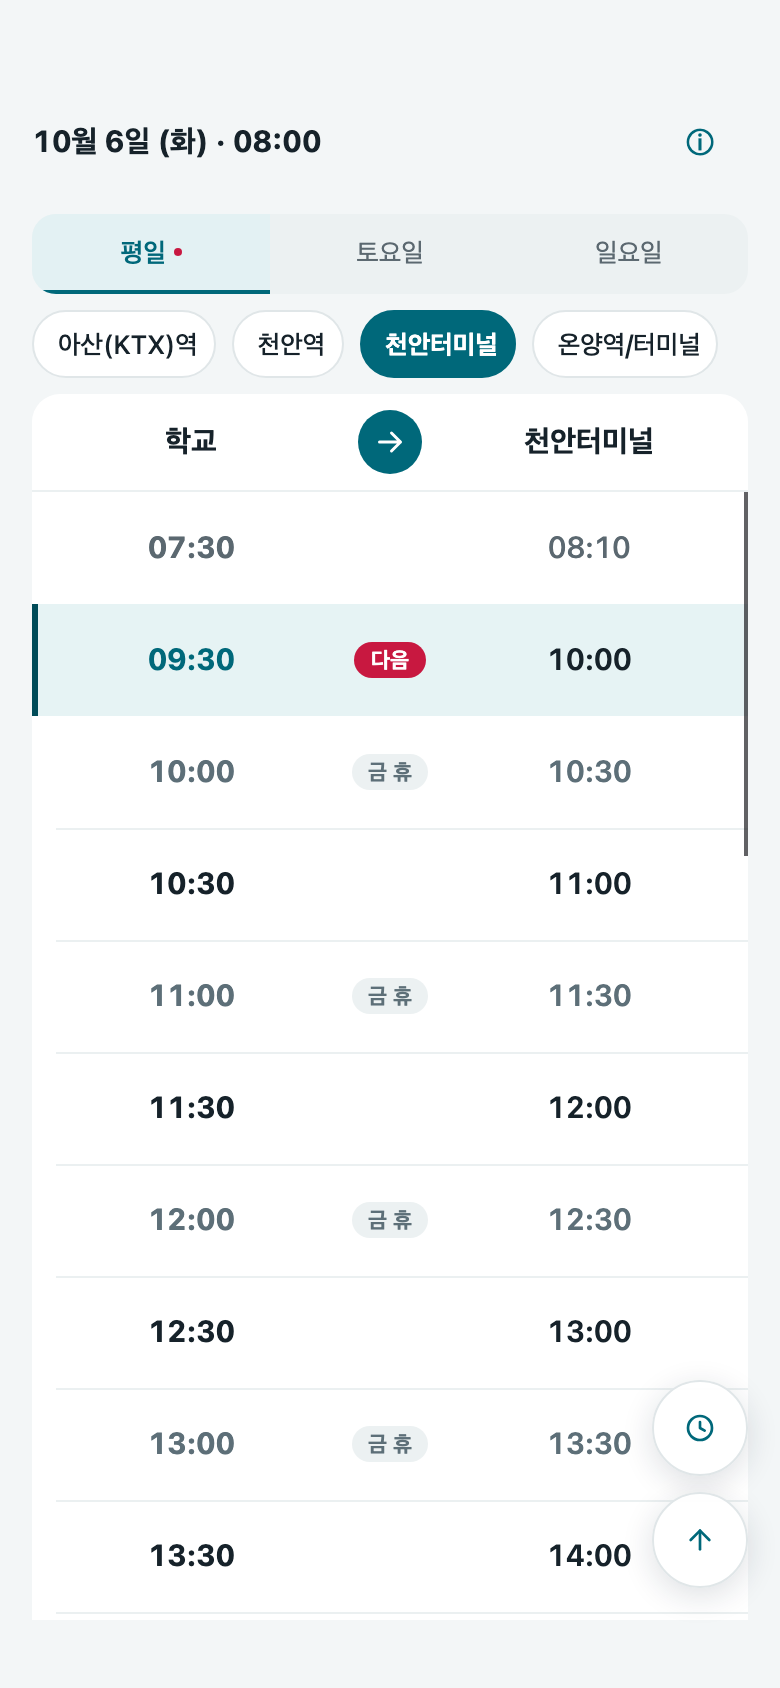
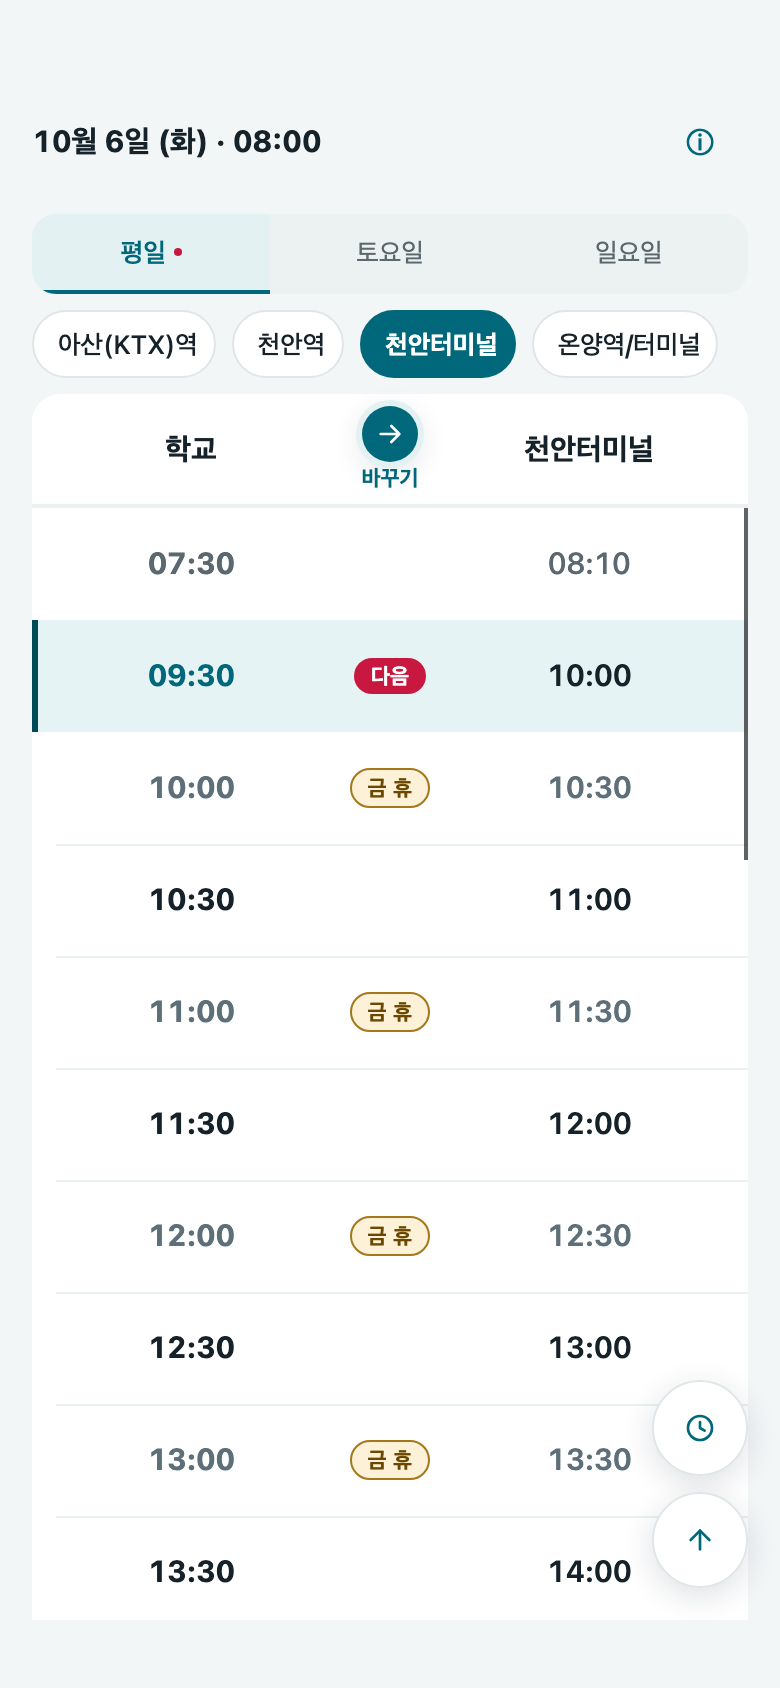
evidence: 방향 머리 버튼 후 스모크 재실행 산출물

diff --git a/.session-notes/T7-a11y-report.md b/.session-notes/T7-a11y-report.md
@@ -1,13 +1,13 @@
 # T7·T11 감사 원출력 (a11y_smoke.mjs)
 
-- 일시: 2026-11-14T07:36:23.466Z
-- URL: http://127.0.0.1:56016/sunmoon-shuttle/?now=2026-10-05T14%3A40%3A00%2B09%3A00
+- 일시: 2026-11-14T07:48:29.609Z
+- URL: http://127.0.0.1:56540/sunmoon-shuttle/?now=2026-10-05T14%3A40%3A00%2B09%3A00
 - 뷰포트: 390×844 @2x (mobile, touch)
 - 스크린샷: .session-notes/T7-light.png · .session-notes/T7-dark.png · .session-notes/T7-focus-skip-link.png · .session-notes/T11-privacy.png
 
 ### ① 매니페스트 (Page.getAppManifest)
 
-- url: http://127.0.0.1:56016/sunmoon-shuttle/manifest.webmanifest
+- url: http://127.0.0.1:56540/sunmoon-shuttle/manifest.webmanifest
 - errors: []
 - name: 선문대 셔틀버스 시간표 · Sunmoon Shuttle Bus
 - short_name: 셔틀버스 Shuttle
@@ -25,7 +25,7 @@
 | ./icons/maskable-512.png | 512x512 | maskable | 200 | 512x512 | 4290B |
 
 
-### ③ light — 대비 실측(전체 34개 텍스트 노드)
+### ③ light — 대비 실측(전체 35개 텍스트 노드)
 
 | 요소 | 문구 | 전경 | 배경 | 크기 | 대비 | 기준 |
 |---|---|---|---|---|---|---|
@@ -41,6 +41,7 @@
 | span.shuttle-chip__label | 천안터미널 | rgb(22, 34, 42) | rgb(255, 255, 255) | 13px | 16.2:1 | ≥4.5 |
 | span.shuttle-chip__label | 온양역/터미널 | rgb(93, 111, 120) | rgb(255, 255, 255) | 13px | 5.24:1 | ≥4.5 |
 | span.shuttle-dirhead__place | 학교 | rgb(22, 34, 42) | rgb(255, 255, 255) | 15px bold | 16.2:1 | ≥4.5 |
+| span.shuttle-dirhead__hint | 바꾸기 | rgb(0, 104, 122) | rgb(255, 255, 255) | 11px bold | 6.44:1 | ≥4.5 |
 | span.shuttle-dirhead__place.shuttle-dirhead__place--to | 아산(KTX)역 | rgb(22, 34, 42) | rgb(255, 255, 255) | 15px bold | 16.2:1 | ≥4.5 |
 | span.shuttle-departure__time | 09:00 | rgb(91, 104, 112) | rgb(255, 255, 255) | 15px bold | 5.74:1 | ≥4.5 |
 | span.shuttle-departure__duration | 약 20분 | rgb(91, 104, 112) | rgb(255, 255, 255) | 13px | 5.74:1 | ≥4.5 |
@@ -80,7 +81,7 @@
 | button.shuttle-chip | 천안역 | 56px | 44px | 48×44 |
 | button.shuttle-chip | 천안터미널 | 78px | 44px | 48×44 |
 | button.shuttle-chip.shuttle-chip--empty | 온양역/터미널 | 93px | 44px | 48×44 |
-| button.shuttle-dirhead__arrow |  | 48px | 48px | 48×48 |
+| button.shuttle-dirhead | 학교바꾸기아산(KTX)역 | 358px | 56px | 48×48 |
 | section.shuttle-tabpanel.shuttle-tabpanel--enter | 시간표09:00약 20분09:20지난 편12:00약 | 358px | 464px | 48×48 |
 | button.shuttle-icon-button |  | 48px | 48px | 48×48 |
 | button.shuttle-icon-button.shuttle-sheet__close |  | 48px | 48px | 48×48 |
@@ -92,7 +93,7 @@
 
 규격 미달: 0건
 
-레이아웃: 요소 260개 · body bg=rgb(243, 246, 247) · body color=rgb(22, 34, 42) · scrollWidth=390 ≤ clientWidth=390
+레이아웃: 요소 262개 · body bg=rgb(243, 246, 247) · body color=rgb(22, 34, 42) · scrollWidth=390 ≤ clientWidth=390
 
 
 #### 키보드 포커스(실측)
@@ -103,7 +104,7 @@
 ### 설치 안내 삭제 + 본문 텍스트 노드 전수 목록(T31 · docs/07 §13)
 - 설치 안내 노드: false · 금지 문자열 실측(값·상태·라벨 구역): 0건
 - §9-4 예외 구역(상태 1줄): 합니다
-- 본문 텍스트 노드 32개 · 허용 구역 밖 0건
+- 본문 텍스트 노드 33개 · 허용 구역 밖 0건
 - 전수 목록(문자열·위치·크기): .session-notes/T31-본문텍스트노드.md
 
 | 요소 | 문자열 | 위치(x,y) | 크기(w×h) | 폰트(px) | 구분 |
@@ -119,30 +120,31 @@
 | span.shuttle-chip__label | 천안역 | 131,186 | 34×20 | 13 | 값·상태·라벨 |
 | span.shuttle-chip__label | 천안터미널 | 195,186 | 56×20 | 13 | 값·상태·라벨 |
 | span.shuttle-chip__label | 온양역/터미널 | 281,186 | 71×20 | 13 | 값·상태·라벨 |
-| span.shuttle-dirhead__place | 학교 | 83,234 | 26×23 | 15 | 값·상태·라벨 |
-| span.shuttle-dirhead__place.shuttle-dirhead__place--to | 아산(KTX)역 | 253,234 | 82×23 | 15 | 값·상태·라벨 |
-| span.shuttle-departure__time | 09:00 | 74,289 | 44×20 | 15 | 값·상태·라벨 |
-| span.shuttle-departure__duration | 약 20분 | 174,288 | 42×20 | 13 | 값·상태·라벨 |
-| span.shuttle-departure__arrive | 09:20 | 274,289 | 41×20 | 15 | 값·상태·라벨 |
-| span.shuttle-departure__time | 12:00 | 74,345 | 44×20 | 15 | 값·상태·라벨 |
-| span.shuttle-departure__duration | 약 20분 | 174,344 | 42×20 | 13 | 값·상태·라벨 |
-| span.shuttle-departure__arrive | 12:20 | 274,345 | 41×20 | 15 | 값·상태·라벨 |
-| span.shuttle-departure__time | 16:10 | 74,401 | 44×20 | 15 | 값·상태·라벨 |
-| span.shuttle-departure__duration | 약 20분 | 174,390 | 42×20 | 13 | 값·상태·라벨 |
-| span.shuttle-departure__next-badge | 다음 | 177,412 | 35×19 | 11 | 값·상태·라벨 |
-| span.shuttle-departure__arrive | 16:30 | 273,401 | 43×20 | 15 | 값·상태·라벨 |
-| span.shuttle-departure__time | 18:20 | 74,457 | 44×20 | 15 | 값·상태·라벨 |
-| span.shuttle-departure__duration | 약 20분 | 174,456 | 42×20 | 13 | 값·상태·라벨 |
-| span.shuttle-departure__arrive | 18:40 | 273,457 | 43×20 | 15 | 값·상태·라벨 |
-| span.shuttle-departure__time | 19:10 | 74,513 | 44×20 | 15 | 값·상태·라벨 |
-| span.shuttle-departure__duration | 약 20분 | 174,512 | 42×20 | 13 | 값·상태·라벨 |
-| span.shuttle-departure__arrive | 19:30 | 273,513 | 43×20 | 15 | 값·상태·라벨 |
-| span.shuttle-departure__time | 20:00 | 74,569 | 44×20 | 15 | 값·상태·라벨 |
-| span.shuttle-departure__duration | 약 20분 | 174,568 | 42×20 | 13 | 값·상태·라벨 |
-| span.shuttle-departure__arrive | 20:20 | 273,569 | 43×20 | 15 | 값·상태·라벨 |
+| span.shuttle-dirhead__place | 학교 | 83,237 | 26×23 | 15 | 값·상태·라벨 |
+| span.shuttle-dirhead__hint | 바꾸기 | 181,257 | 29×13 | 11 | 값·상태·라벨 |
+| span.shuttle-dirhead__place.shuttle-dirhead__place--to | 아산(KTX)역 | 253,237 | 82×23 | 15 | 값·상태·라벨 |
+| span.shuttle-departure__time | 09:00 | 74,297 | 44×20 | 15 | 값·상태·라벨 |
+| span.shuttle-departure__duration | 약 20분 | 174,296 | 42×20 | 13 | 값·상태·라벨 |
+| span.shuttle-departure__arrive | 09:20 | 274,297 | 41×20 | 15 | 값·상태·라벨 |
+| span.shuttle-departure__time | 12:00 | 74,353 | 44×20 | 15 | 값·상태·라벨 |
+| span.shuttle-departure__duration | 약 20분 | 174,352 | 42×20 | 13 | 값·상태·라벨 |
+| span.shuttle-departure__arrive | 12:20 | 274,353 | 41×20 | 15 | 값·상태·라벨 |
+| span.shuttle-departure__time | 16:10 | 74,409 | 44×20 | 15 | 값·상태·라벨 |
+| span.shuttle-departure__duration | 약 20분 | 174,398 | 42×20 | 13 | 값·상태·라벨 |
+| span.shuttle-departure__next-badge | 다음 | 177,420 | 35×19 | 11 | 값·상태·라벨 |
+| span.shuttle-departure__arrive | 16:30 | 273,409 | 43×20 | 15 | 값·상태·라벨 |
+| span.shuttle-departure__time | 18:20 | 74,465 | 44×20 | 15 | 값·상태·라벨 |
+| span.shuttle-departure__duration | 약 20분 | 174,464 | 42×20 | 13 | 값·상태·라벨 |
+| span.shuttle-departure__arrive | 18:40 | 273,465 | 43×20 | 15 | 값·상태·라벨 |
+| span.shuttle-departure__time | 19:10 | 74,521 | 44×20 | 15 | 값·상태·라벨 |
+| span.shuttle-departure__duration | 약 20분 | 174,520 | 42×20 | 13 | 값·상태·라벨 |
+| span.shuttle-departure__arrive | 19:30 | 273,521 | 43×20 | 15 | 값·상태·라벨 |
+| span.shuttle-departure__time | 20:00 | 74,577 | 44×20 | 15 | 값·상태·라벨 |
+| span.shuttle-departure__duration | 약 20분 | 174,576 | 42×20 | 13 | 값·상태·라벨 |
+| span.shuttle-departure__arrive | 20:20 | 273,577 | 43×20 | 15 | 값·상태·라벨 |
 
 
-### ④ dark — 대비 실측(전체 34개 텍스트 노드)
+### ④ dark — 대비 실측(전체 35개 텍스트 노드)
 
 | 요소 | 문구 | 전경 | 배경 | 크기 | 대비 | 기준 |
 |---|---|---|---|---|---|---|
@@ -158,6 +160,7 @@
 | span.shuttle-chip__label | 천안터미널 | rgb(238, 242, 246) | rgb(27, 33, 41) | 13px | 14.4:1 | ≥4.5 |
 | span.shuttle-chip__label | 온양역/터미널 | rgb(154, 166, 178) | rgb(27, 33, 41) | 13px | 6.54:1 | ≥4.5 |
 | span.shuttle-dirhead__place | 학교 | rgb(238, 242, 246) | rgb(27, 33, 41) | 15px bold | 14.4:1 | ≥4.5 |
+| span.shuttle-dirhead__hint | 바꾸기 | rgb(95, 195, 207) | rgb(27, 33, 41) | 11px bold | 7.86:1 | ≥4.5 |
 | span.shuttle-dirhead__place.shuttle-dirhead__place--to | 아산(KTX)역 | rgb(238, 242, 246) | rgb(27, 33, 41) | 15px bold | 14.4:1 | ≥4.5 |
 | span.shuttle-departure__time | 09:00 | rgb(185, 195, 206) | rgb(27, 33, 41) | 15px bold | 9.07:1 | ≥4.5 |
 | span.shuttle-departure__duration | 약 20분 | rgb(185, 195, 206) | rgb(27, 33, 41) | 13px | 9.07:1 | ≥4.5 |
@@ -197,7 +200,7 @@
 | button.shuttle-chip | 천안역 | 56px | 44px | 48×44 |
 | button.shuttle-chip | 천안터미널 | 78px | 44px | 48×44 |
 | button.shuttle-chip.shuttle-chip--empty | 온양역/터미널 | 93px | 44px | 48×44 |
-| button.shuttle-dirhead__arrow |  | 48px | 48px | 48×48 |
+| button.shuttle-dirhead | 학교바꾸기아산(KTX)역 | 358px | 56px | 48×48 |
 | section.shuttle-tabpanel.shuttle-tabpanel--enter | 시간표09:00약 20분09:20지난 편12:00약 | 358px | 464px | 48×48 |
 | button.shuttle-icon-button |  | 48px | 48px | 48×48 |
 | button.shuttle-icon-button.shuttle-sheet__close |  | 48px | 48px | 48×48 |
@@ -209,7 +212,7 @@
 
 규격 미달: 0건
 
-레이아웃: 요소 260개 · body bg=rgb(18, 22, 27) · body color=rgb(238, 242, 246) · scrollWidth=390 ≤ clientWidth=390
+레이아웃: 요소 262개 · body bg=rgb(18, 22, 27) · body color=rgb(238, 242, 246) · scrollWidth=390 ≤ clientWidth=390
 
 
 #### 안전영역 토큰 주입 실측
@@ -223,10 +226,10 @@
 
 
 ### ⑧ 개인정보처리방침(privacy.html · T11)
-- URL: http://127.0.0.1:56016/sunmoon-shuttle/privacy.html (HTTP 200, 6238B)
+- URL: http://127.0.0.1:56540/sunmoon-shuttle/privacy.html (HTTP 200, 6238B)
 - h1: 개인정보처리방침 · 필수 문구 누락: 0건
 - body bg=rgb(243, 246, 247) · color=rgb(22, 34, 42) · 가로 스크롤 없음(scrollWidth=390)
-- 푸터 링크: {"href":"./privacy.html","text":"개인정보처리방침","resolved":"http://127.0.0.1:56016/sunmoon-shuttle/privacy.html"}
+- 푸터 링크: {"href":"./privacy.html","text":"개인정보처리방침","resolved":"http://127.0.0.1:56540/sunmoon-shuttle/privacy.html"}
 - 스크린샷: /Users/leeheesun/Documents/GitHub/sunmoon-shuttle/.session-notes/T11-privacy.png
 
 | 요소 | 문구 | 전경 | 배경 | 크기 | 대비 | 기준 |

diff --git a/.session-notes/T31-본문텍스트노드.md b/.session-notes/T31-본문텍스트노드.md
@@ -1,9 +1,9 @@
 # T31 본문 텍스트 노드 전수 목록 (docs/07 §13-3 · AC-U13-2)
 
-- 일시: 2026-11-14T07:36:20.781Z
-- URL: http://127.0.0.1:56016/sunmoon-shuttle/?now=2026-10-05T14%3A40%3A00%2B09%3A00
+- 일시: 2026-11-14T07:48:26.830Z
+- URL: http://127.0.0.1:56540/sunmoon-shuttle/?now=2026-10-05T14%3A40%3A00%2B09%3A00
 - 뷰포트: 390×844 @2x (mobile, touch) · 라이트 모드 · 미설치 상태(설치 안내 없음)
-- 노드 수: 32개 · 금지 문자열 실측: 0건
+- 노드 수: 33개 · 금지 문자열 실측: 0건
 - §9-4 예외 구역(상단 상태 1줄·오류/오프라인 배너)에서 나온 금지 문자열: 합니다 (문서가 남긴 고정 문구 — v1·render·offline 스모크가 그대로 검사한다)
 - 허용 구역 밖(설명문 의심): 0건
 
@@ -20,27 +20,28 @@
 | 9 | span.shuttle-chip__label | 천안역 | 131,186 | 34×20 | 13 | 값·상태·라벨 |
 | 10 | span.shuttle-chip__label | 천안터미널 | 195,186 | 56×20 | 13 | 값·상태·라벨 |
 | 11 | span.shuttle-chip__label | 온양역/터미널 | 281,186 | 71×20 | 13 | 값·상태·라벨 |
-| 12 | span.shuttle-dirhead__place | 학교 | 83,234 | 26×23 | 15 | 값·상태·라벨 |
-| 13 | span.shuttle-dirhead__place.shuttle-dirhead__place--to | 아산(KTX)역 | 253,234 | 82×23 | 15 | 값·상태·라벨 |
-| 14 | span.shuttle-departure__time | 09:00 | 74,289 | 44×20 | 15 | 값·상태·라벨 |
-| 15 | span.shuttle-departure__duration | 약 20분 | 174,288 | 42×20 | 13 | 값·상태·라벨 |
-| 16 | span.shuttle-departure__arrive | 09:20 | 274,289 | 41×20 | 15 | 값·상태·라벨 |
-| 17 | span.shuttle-departure__time | 12:00 | 74,345 | 44×20 | 15 | 값·상태·라벨 |
-| 18 | span.shuttle-departure__duration | 약 20분 | 174,344 | 42×20 | 13 | 값·상태·라벨 |
-| 19 | span.shuttle-departure__arrive | 12:20 | 274,345 | 41×20 | 15 | 값·상태·라벨 |
-| 20 | span.shuttle-departure__time | 16:10 | 74,401 | 44×20 | 15 | 값·상태·라벨 |
-| 21 | span.shuttle-departure__duration | 약 20분 | 174,390 | 42×20 | 13 | 값·상태·라벨 |
-| 22 | span.shuttle-departure__next-badge | 다음 | 177,412 | 35×19 | 11 | 값·상태·라벨 |
-| 23 | span.shuttle-departure__arrive | 16:30 | 273,401 | 43×20 | 15 | 값·상태·라벨 |
-| 24 | span.shuttle-departure__time | 18:20 | 74,457 | 44×20 | 15 | 값·상태·라벨 |
-| 25 | span.shuttle-departure__duration | 약 20분 | 174,456 | 42×20 | 13 | 값·상태·라벨 |
-| 26 | span.shuttle-departure__arrive | 18:40 | 273,457 | 43×20 | 15 | 값·상태·라벨 |
-| 27 | span.shuttle-departure__time | 19:10 | 74,513 | 44×20 | 15 | 값·상태·라벨 |
-| 28 | span.shuttle-departure__duration | 약 20분 | 174,512 | 42×20 | 13 | 값·상태·라벨 |
-| 29 | span.shuttle-departure__arrive | 19:30 | 273,513 | 43×20 | 15 | 값·상태·라벨 |
-| 30 | span.shuttle-departure__time | 20:00 | 74,569 | 44×20 | 15 | 값·상태·라벨 |
-| 31 | span.shuttle-departure__duration | 약 20분 | 174,568 | 42×20 | 13 | 값·상태·라벨 |
-| 32 | span.shuttle-departure__arrive | 20:20 | 273,569 | 43×20 | 15 | 값·상태·라벨 |
+| 12 | span.shuttle-dirhead__place | 학교 | 83,237 | 26×23 | 15 | 값·상태·라벨 |
+| 13 | span.shuttle-dirhead__hint | 바꾸기 | 181,257 | 29×13 | 11 | 값·상태·라벨 |
+| 14 | span.shuttle-dirhead__place.shuttle-dirhead__place--to | 아산(KTX)역 | 253,237 | 82×23 | 15 | 값·상태·라벨 |
+| 15 | span.shuttle-departure__time | 09:00 | 74,297 | 44×20 | 15 | 값·상태·라벨 |
+| 16 | span.shuttle-departure__duration | 약 20분 | 174,296 | 42×20 | 13 | 값·상태·라벨 |
+| 17 | span.shuttle-departure__arrive | 09:20 | 274,297 | 41×20 | 15 | 값·상태·라벨 |
+| 18 | span.shuttle-departure__time | 12:00 | 74,353 | 44×20 | 15 | 값·상태·라벨 |
+| 19 | span.shuttle-departure__duration | 약 20분 | 174,352 | 42×20 | 13 | 값·상태·라벨 |
+| 20 | span.shuttle-departure__arrive | 12:20 | 274,353 | 41×20 | 15 | 값·상태·라벨 |
+| 21 | span.shuttle-departure__time | 16:10 | 74,409 | 44×20 | 15 | 값·상태·라벨 |
+| 22 | span.shuttle-departure__duration | 약 20분 | 174,398 | 42×20 | 13 | 값·상태·라벨 |
+| 23 | span.shuttle-departure__next-badge | 다음 | 177,420 | 35×19 | 11 | 값·상태·라벨 |
+| 24 | span.shuttle-departure__arrive | 16:30 | 273,409 | 43×20 | 15 | 값·상태·라벨 |
+| 25 | span.shuttle-departure__time | 18:20 | 74,465 | 44×20 | 15 | 값·상태·라벨 |
+| 26 | span.shuttle-departure__duration | 약 20분 | 174,464 | 42×20 | 13 | 값·상태·라벨 |
+| 27 | span.shuttle-departure__arrive | 18:40 | 273,465 | 43×20 | 15 | 값·상태·라벨 |
+| 28 | span.shuttle-departure__time | 19:10 | 74,521 | 44×20 | 15 | 값·상태·라벨 |
+| 29 | span.shuttle-departure__duration | 약 20분 | 174,520 | 42×20 | 13 | 값·상태·라벨 |
+| 30 | span.shuttle-departure__arrive | 19:30 | 273,521 | 43×20 | 15 | 값·상태·라벨 |
+| 31 | span.shuttle-departure__time | 20:00 | 74,577 | 44×20 | 15 | 값·상태·라벨 |
+| 32 | span.shuttle-departure__duration | 약 20분 | 174,576 | 42×20 | 13 | 값·상태·라벨 |
+| 33 | span.shuttle-departure__arrive | 20:20 | 273,577 | 43×20 | 15 | 값·상태·라벨 |
 
 ## 구분 기준 (§13-1 — 본문 텍스트는 다음 5종만)
 ① 시각 ② 노선·도착지 ③ 편수 ④ 조건 토큰 ⑤ 컨트롤 라벨(아이콘 라벨)
